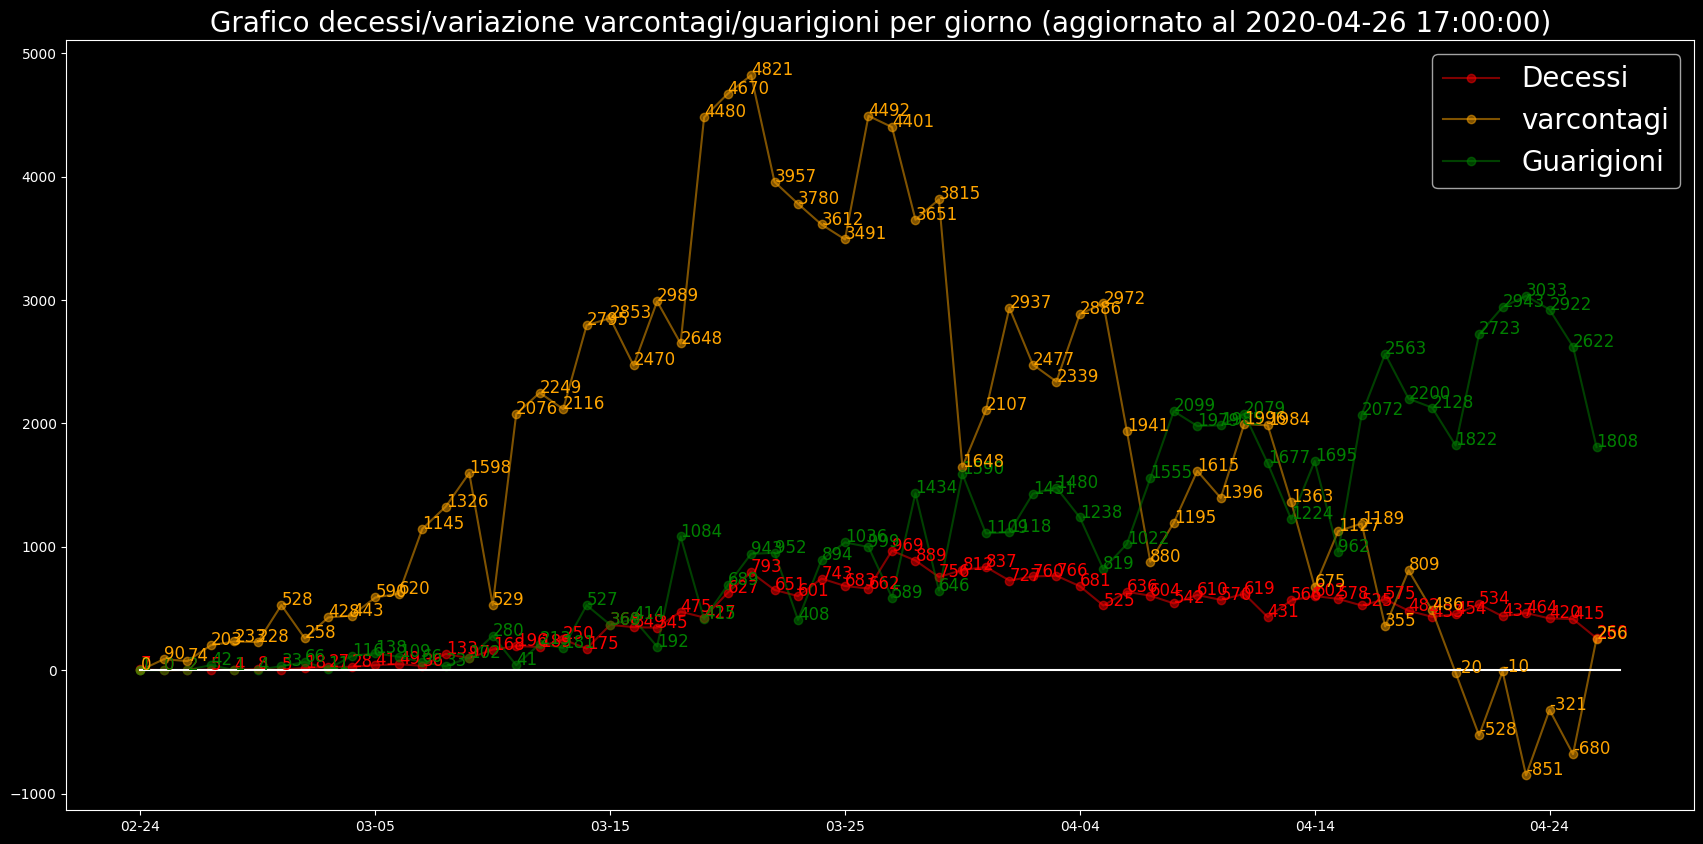
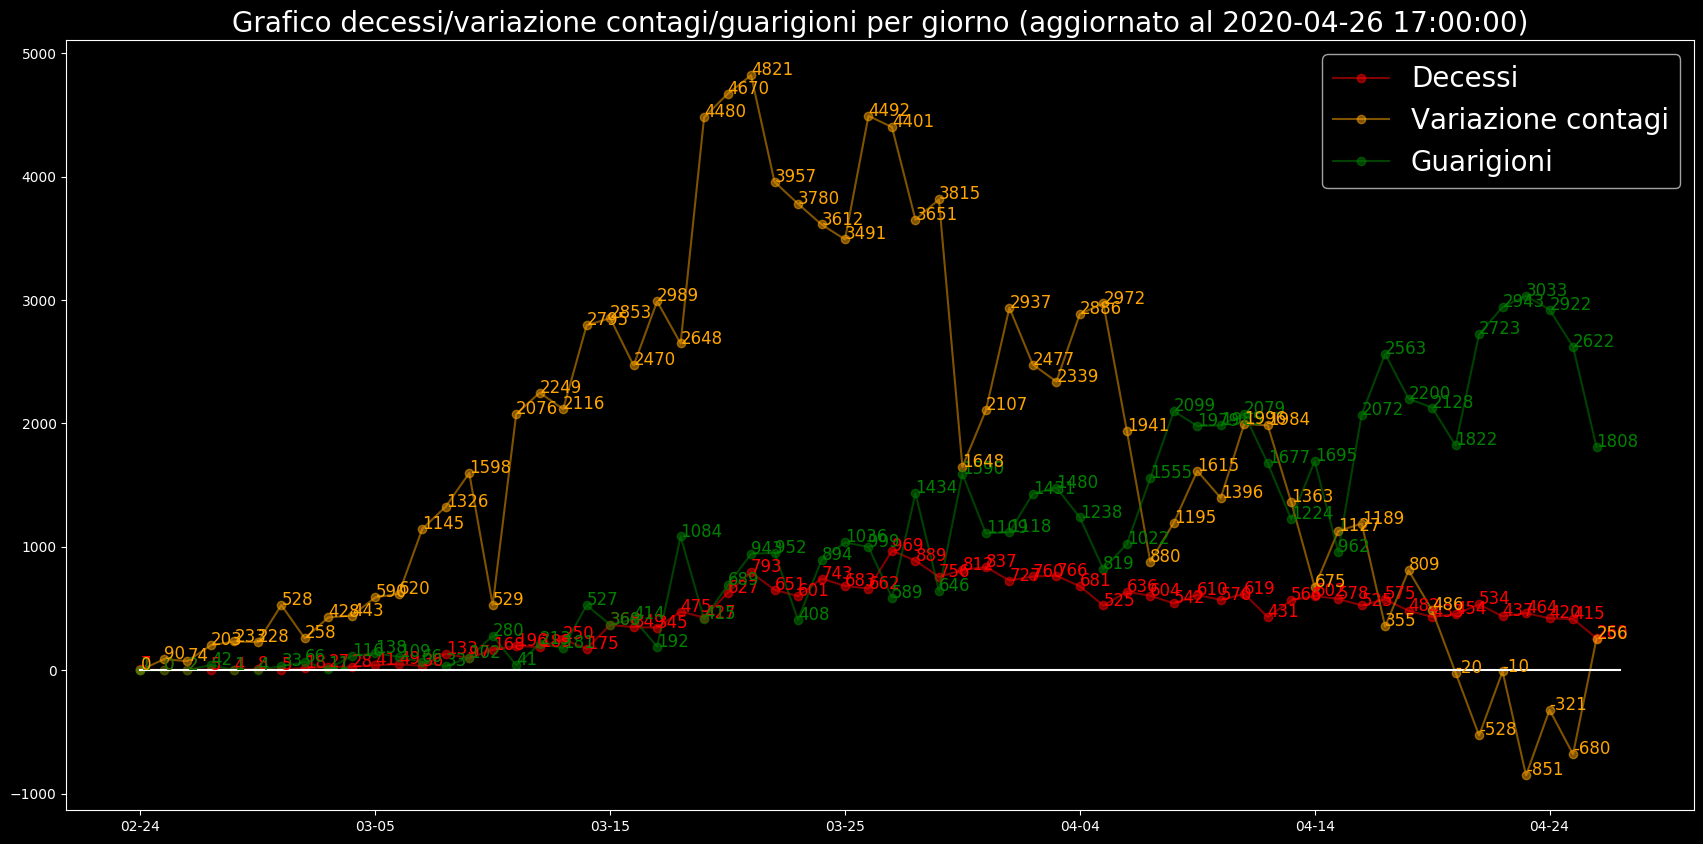
27-04

Changed region(s): [[0.1245, 0.0, 0.9648, 0.154], [0.778, 0.1848, 0.9648, 0.2464]]

diff --git a/covid19graphs/src/ContHealDeathPerDay.py b/covid19graphs/src/ContHealDeathPerDay.py
@@ -104,7 +104,7 @@ def main():
 
     # Grafico a linee
     deathseries.plot(alpha=0.5, color="red", label="Decessi", marker="o")
-    varcontseries.plot(alpha=0.5, color="orange", label="varcontagi", marker='o')
+    varcontseries.plot(alpha=0.5, color="orange", label="Variazione contagi", marker='o')
     healseries.plot(alpha=0.5, color="green", label="Guarigioni", marker='o')
 
 
@@ -112,7 +112,7 @@ def main():
     aggiungitesto(giornocasi, listaseriescelte, listacolori)
     datatoday = listadati[-1][0].split("T")[0]
     oratoday = listadati[-1][0].split("T")[1]
-    savegraph("Grafico decessi/variazione varcontagi/guarigioni per giorno (aggiornato al {})".format(datatoday + " " + oratoday), len(giornocasi))
+    savegraph("Grafico decessi/variazione contagi/guarigioni per giorno (aggiornato al {})".format(datatoday + " " + oratoday), len(giornocasi))
 
     #Aggiungo statistiche top
     statsfile = open("../assets/stats.txt","w+")
